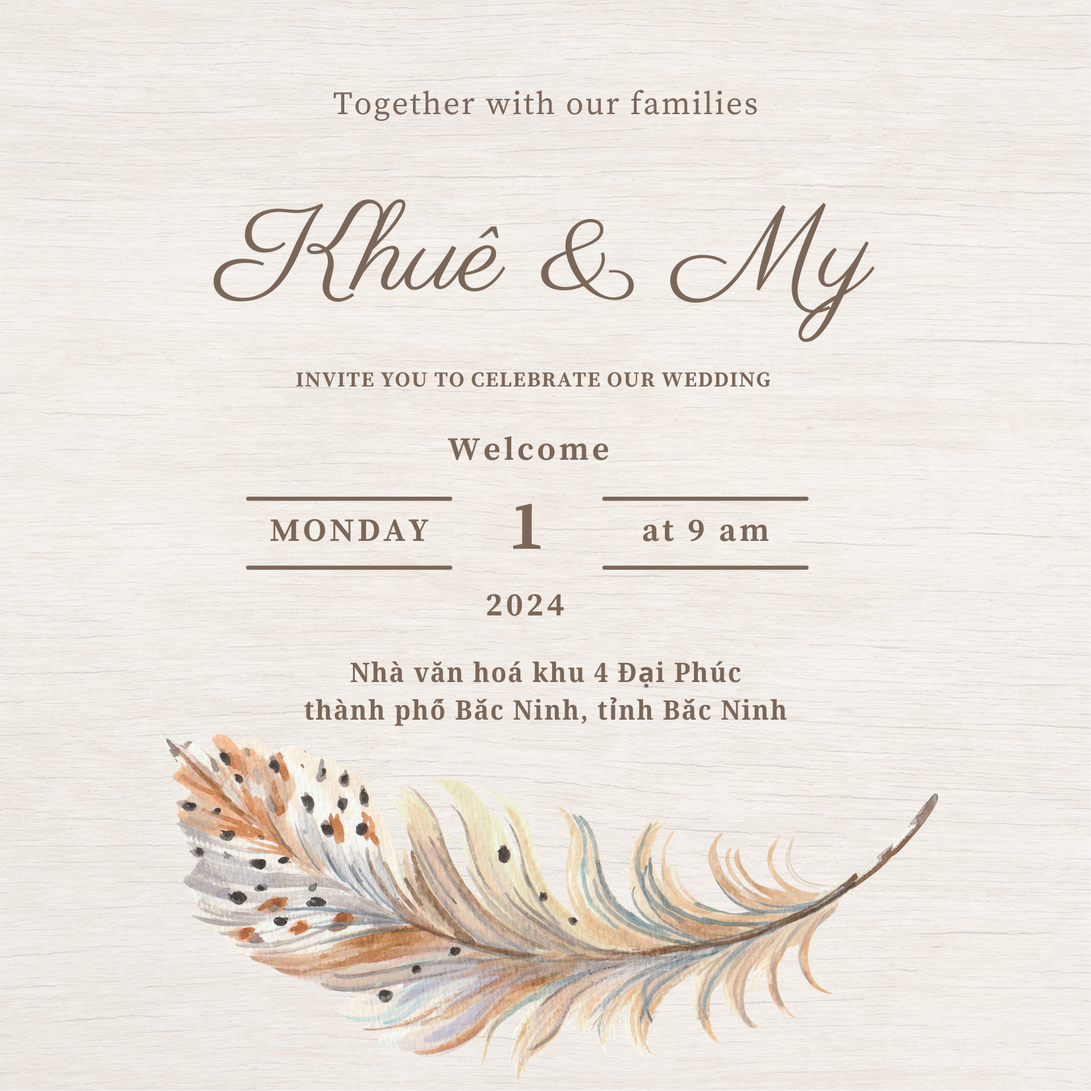
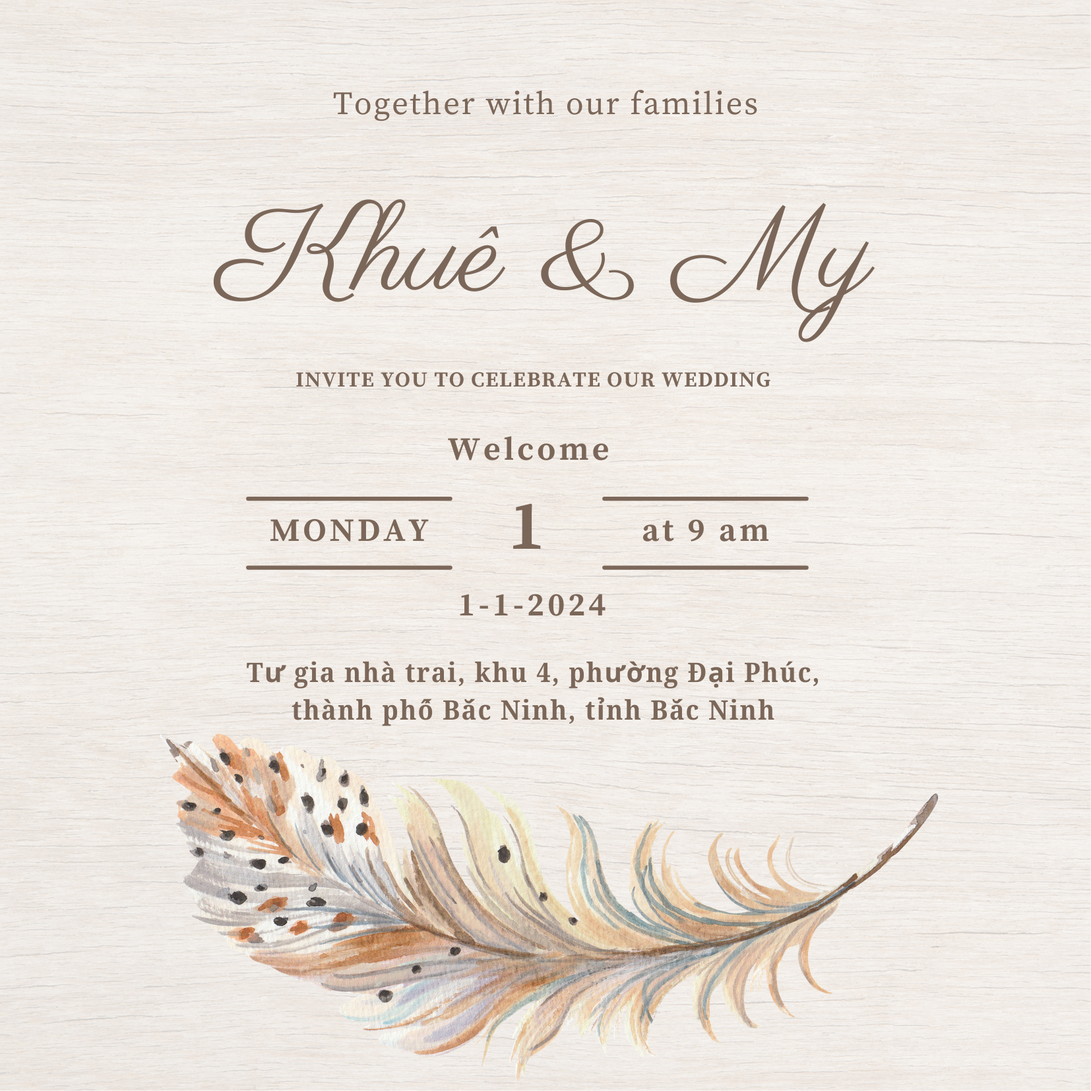
:100: edit location, add send wish

Changed region(s): [[0.2467, 0.5242, 0.74, 0.6784]]

diff --git a/app/src/App.vue b/app/src/App.vue
@@ -107,7 +107,7 @@
 				<div class="location_container">
 					<div class="map">
 						<iframe
-							src="https://www.google.com/maps/embed?pb=!1m14!1m8!1m3!1d29763.53336940917!2d106.0740739!3d21.1746066!3m2!1i1024!2i768!4f13.1!3m3!1m2!1s0x31350d5ef403be1b%3A0x90409b16b662566f!2zTmjDoCBWxINuIEhvw6EgS2h1IDQgxJDhuqFpIFBow7pj!5e0!3m2!1svi!2s!4v1702715991019!5m2!1svi!2s"
+							src="https://www.google.com/maps/embed?pb=!1m17!1m12!1m3!1d3720.526093752256!2d106.07864699999999!3d21.171249999999997!2m3!1f0!2f0!3f0!3m2!1i1024!2i768!4f13.1!3m2!1m1!2zMjHCsDEwJzE2LjUiTiAxMDbCsDA0JzQzLjEiRQ!5e0!3m2!1svi!2s!4v1702970564757!5m2!1svi!2s"
 							style=""
 							allowfullscreen="true"
 							loading="lazy"
@@ -125,7 +125,7 @@
 									font-scale="1"
 								></b-icon>
 								<p class="item_context">
-									Nhà văn hoá khu 4 Đại Phúc, thành phố Bắc Ninh, tỉnh Bắc Ninh
+									Tư gia nhà trai, khu 4, phường Đại Phúc, thành phố Bắc Ninh, tỉnh Bắc Ninh
 								</p>
 							</div>
 							<div class="location_info_item">
@@ -172,6 +172,17 @@
 			:hostName="hostName"
 			:quoteName="quoteName"
 		></quote-modal>
+		<wish-modal :wishModalId="wishModalId"></wish-modal>
+		<div class="section" style="padding: 2% 5%; background-color: antiquewhite">
+			<h3>Your best wishes !</h3>
+			<el-button
+				style="margin-bottom: 5px"
+				type="warning"
+				icon="el-icon-message"
+				@click="onOpenWishModal"
+				>Send us your wish</el-button
+			>
+		</div>
 		<app-footer></app-footer>
 	</div>
 </template>
@@ -181,6 +192,7 @@ import FlipCountdown from 'vue2-flip-countdown';
 import AppHeader from './components/AppHeader.vue';
 import AppFooter from './components/AppFooter.vue';
 import QuoteModal from './components/QuoteModal.vue';
+import WishModal from './components/WishModal.vue';
 
 import ScrollReveal from 'scrollreveal';
 
@@ -191,14 +203,11 @@ export default {
 		AppHeader,
 		AppFooter,
 		QuoteModal,
+		WishModal,
 	},
 	created() {},
 	mounted() {
-		let nodeArray = [
-			this.$refs.gallery,
-			this.$refs.date,
-			this.$refs.location,
-		];
+		let nodeArray = [this.$refs.gallery, this.$refs.date, this.$refs.location];
 		let option = {
 			delay: 200,
 			distance: '50px',
@@ -244,7 +253,7 @@ export default {
 						"You are the love I never knew I needed, the anchor in life's stormy seas. I choose you today and every day, thankful for the extraordinary love we share .",
 				},
 			},
-
+			wishModalId: 'wishModalId',
 			quoteModalId: 'quoteModalId',
 			hostName: '',
 			quoteName: '',
@@ -290,6 +299,9 @@ export default {
 	},
 
 	methods: {
+		onOpenWishModal() {
+			this.$bvModal.show(this.wishModalId);
+		},
 		onQuoteClick(host) {
 			if (window.innerWidth > 480) {
 				return;

diff --git a/app/src/App.css b/app/src/App.css
@@ -1,14 +1,17 @@
 @import url('https://fonts.googleapis.com/css2?family=Noto+Sans+JP:wght@100&family=Parisienne&display=swap');
-
+@import url('https://fonts.googleapis.com/css2?family=Cabin&family=Noto+Sans+JP:wght@100&family=Parisienne&family=Source+Serif+4:opsz@8..60&display=swap');
 @import url('https://fonts.googleapis.com/css2?family=Noto+Sans+JP:wght@100&family=Parisienne&display=swap');
 #app {
-	font-family: 'Parisienne', cursive;
-	font-family: Avenir, Helvetica, Arial, sans-serif;
+
 	-webkit-font-smoothing: antialiased;
 	-moz-osx-font-smoothing: grayscale;
 	text-align: center;
 	color: #2c3e50;
 	margin: 0;
+	font-family: 'Cabin', sans-serif;
+	font-family: 'Noto Sans JP', sans-serif;
+	font-family: 'Parisienne', cursive;
+	font-family: 'Source Serif 4', serif;
 }
 
 #app_body {
@@ -69,7 +72,7 @@
 }
 .groom .groom_pic img {
 	/* width: 100%; */
-  height: 100%;
+	height: 100%;
 }
 .groom .groom_info {
 	width: 40%;
@@ -103,14 +106,14 @@
 .bride .bride_pic img {
 	/* width: 100%;
    */
-   height: 100%;
+	height: 100%;
 }
 
 .bride_info .info {
 	text-align: right;
 }
 .host .host_info {
-  cursor: pointer;
+	cursor: pointer;
 	padding: 1%;
 	border: 1px solid rgba(200, 200, 200, 0.7);
 	background-color: #fff;

diff --git a/app/src/components/WishModal.vue b/app/src/components/WishModal.vue
@@ -1,0 +1,31 @@
+<template>
+	<b-modal :id="wishModalId" size="lg" scrollable hide-footer hide-header centered>
+		<iframe
+			src="https://docs.google.com/forms/d/e/1FAIpQLSeVDY3uylzWf9MgJdJnfWV8K5SucYDfepJzdc1y2rEyxXGlDw/viewform?embedded=true"
+			width="100%"
+			height="650"
+			frameborder="0"
+			marginheight="0"
+			marginwidth="0"
+			>Đang tải…</iframe
+		>
+		<el-button style="float: right" type="info" @click="onCloseModal">Close</el-button>
+	</b-modal>
+</template>
+
+<script>
+export default {
+	name: 'WishModal',
+	props: {
+		wishModalId: {
+			type: String,
+			required: true,
+		},
+	},
+	methods: {
+		onCloseModal() {
+			this.$bvModal.hide(this.wishModalId);
+		},
+	},
+};
+</script>
